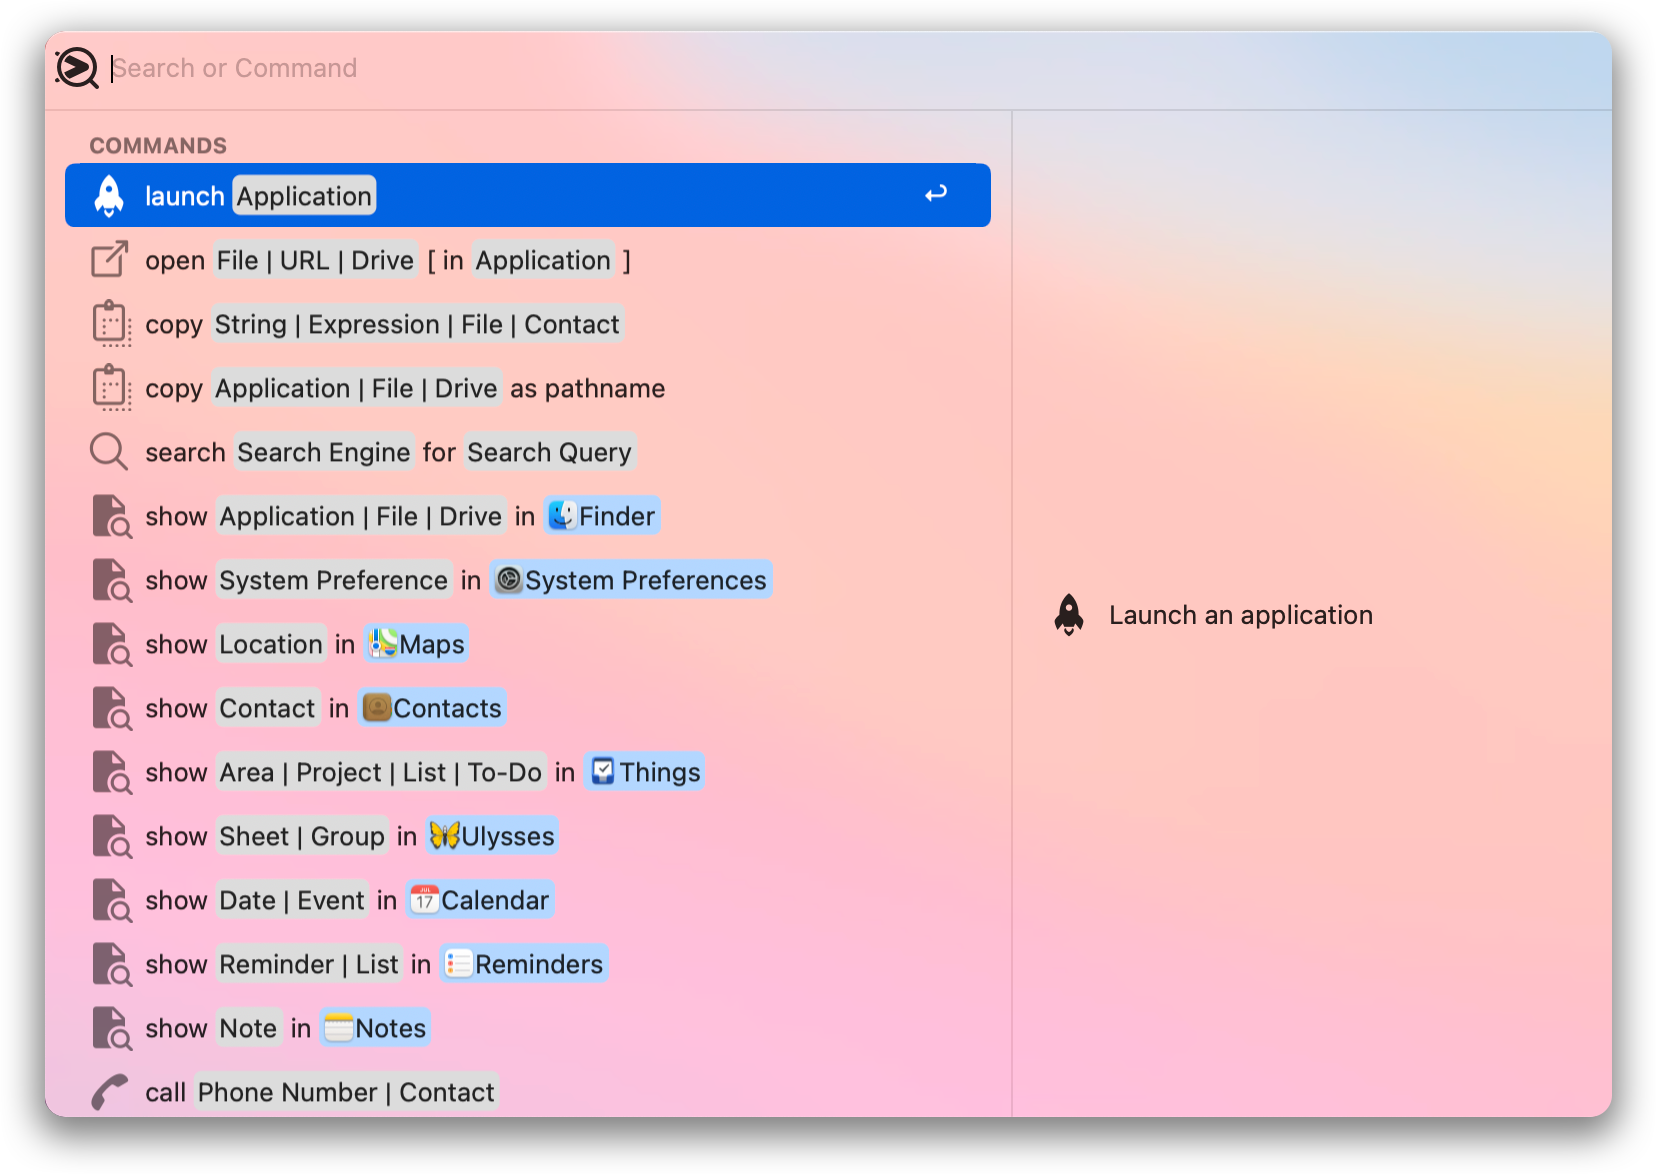
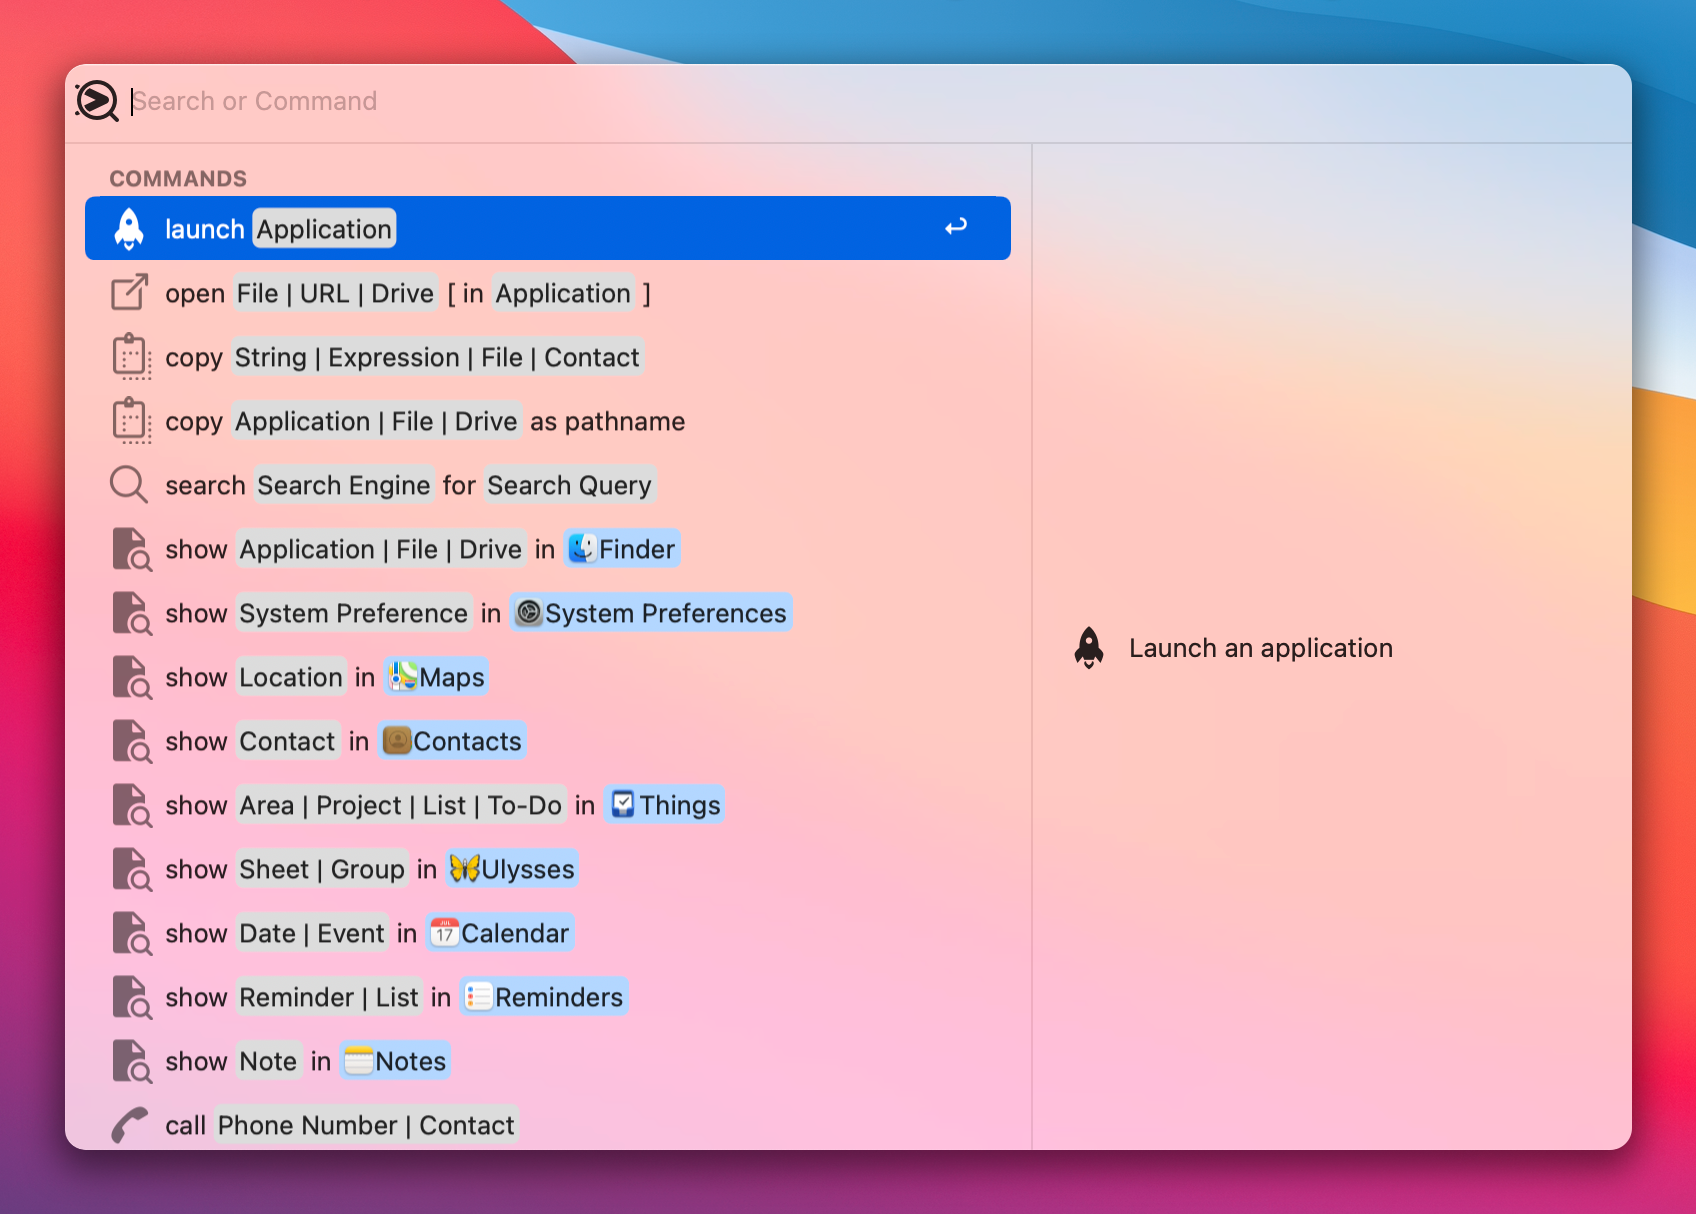
Better screenshots

diff --git a/index.html b/index.html
@@ -10,6 +10,7 @@ title: Don't just search. Command.
       <a href="https://apps.apple.com/us/app/lacona/id1495926282?mt=12"><img src="img/Download_on_the_Mac_App_Store_Badge_US-UK_RGB_blk_092917.svg" /></a>
       <!--<div class="available-on-setapp-235" style="display: inline-block"></div>-->
     </div>
+    <video class="screen" src="/img/rec.mov" autoplay muted loop poster="/img/1-web.png" />
     <img class="screen" src="/img/1-web.png" />
     <p>Open Lacona with a keystroke and <strong>type anything</strong>. Launch apps and find your files instantly.</p>
     <p>But don't just search&mdash;run powerful commands to <strong>control everything</strong> on your Mac.</p>
@@ -38,7 +39,7 @@ title: Don't just search. Command.
 </section>
 
 <section class="box detail" id="style">
-  <h3><strong>Style</strong> &amp; <strong>Substance</strong></h3>
+  <h3>Productive <strong>Elegance</strong></h3>
   <img class="screen" src="/img/5-web.png" />
   <p>Beautiful <strong>Dark mode</strong>. Tasteful <strong>vibrancy</strong>. Elegant <strong>previews</strong>.
 </section>

diff --git a/css/main.css b/css/main.css
@@ -91,8 +91,10 @@ nav li:before {
 
 .screen {
   width: 100%;
-  max-height: 400px;
-  object-fit: contain;
+  max-height: 550px;
+  object-fit: cover;
+  border-radius: 12px;
+  box-shadow: 0 4px 16px rgba(0, 0, 0, 0.5);
 }
 
 .hero {
@@ -152,8 +154,10 @@ p {
 footer {
   text-align: center;
   font-size: 90%;
-  padding-top: 2em;
+  margin-top: 2em;
+  padding-top: 1em;
   padding-bottom: 1em;
+  border-top: 1px solid rgba(0, 0, 0, 0.3);
 }
 
 ul {
@@ -193,4 +197,7 @@ li:before {
 }
 code {
   display: inline-block;
+}
+hr {
+  border: 1px solid rgba(0, 0, 0, 0.1);
 }

diff --git a/guide.md b/guide.md
@@ -3,102 +3,113 @@ layout: page
 title: Usage Guide
 ---
 
-### The Basics {#basic}
+### Opening Lacona {#opening}
 
-Using Lacona is straightforward, but here are some tips if you're struggling to get started.
+To open Lacona, you can use the *keyboard shortcut* defined in Lacona Preferences. By default, this keyboard shortcut is ⌥Space (that is, hold down Option/Alt and press the Spacebar).
 
-#### Opening Lacona {#opening}
+You can change this keyboard shortcut from the Lacona Preferences.
 
-To open Lacona, you can use the Keyboard Shortcut defined in Lacona Preferences. By default, this Keyboard Shortcut is ⌥Space (that is, hold down Option/Alt and press the Spacebar).
+If you forgot the keyboard shortcut, you can open Lacona by clicking its icon in the Menu Bar.
 
-You can change this Keyboard Shortcut from the Lacona Preferences.
+---
 
-If you forgot the Keyboard Shortcut, you can open Lacona by clicking its icon in the Menu Bar.
-
-#### Searching {#searching}
+### Searching {#searching}
 
 To search your data, simply open Lacona and start typing.
 
-Lacona will present you a list of Results that best match your query. Lacona allows for a degree of fuzziness in the input - you can skip characters in the search query, and Lacona will do its best to understand.
+Lacona will present you a list of *results* that best match your query. Lacona allows for a degree of fuzziness in the input - you can skip characters in the search query, and Lacona will do its best to understand.
 
-Lacona will display a list of Results. You can use your mouse or the arrow keys to select any Result, the right side will display a [Preview](#previews).
+You can use your mouse or the arrow keys to select any result, the right side will display a [*preview*](#previews).
 
-While a Result is selected, pressing Return will add it to your [Shelf](#shelf), so you can use it in commands. If you want to open the item immediately, you can [press ⌘↩](#shortcuts) (hold Command and press Return).
+While a result is selected, pressing Return will add it to your [shelf](#shelf), so you can use it in commands. If you want to open the item immediately, you can [press ⌘↩](#shortcuts) (hold Command and press Return).
 
-#### Commands {#commands}
+---
 
-Commands tell Lacona to perform actions. These start with a verb and contain one or more objects. For example, "open Safari" or "search Google for Lacona".
+### Commands {#commands}
 
-Lacona will show all available commands before you enter any input. This is called the Command List.
+Commands tell Lacona to perform actions. These start with a verb and contain one or more objects (e.g. "open Safari" or "search Google for Lacona").
 
-To input a command, you can type out the verb and objects in plain English (e.g. "open Safari"). As you type, Lacona will display the command with Placeholders (displayed as gray rectangles), which tell you which type of objects the command can use. Lacona allows for a degree of fuzziness in the input - you can skip characters in the command, and Lacona will do its best to understand.
+Lacona will show all available commands before you enter any input. This is called the *command list*.
 
-Alternatively, you can start by typing in the objects (e.g. "Safari"), and select them to add them to the [Shelf](#shelf). Then, Lacona will display a list of commands which can use that object. You can then select a command from the list, or begin typing the command.
+To input a command, you can type out the verb and objects in plain English (e.g. "open Safari"). As you type, Lacona will display the command with *placeholders*, which tell you which type of objects the command can use. Lacona allows for a degree of fuzziness in the input - you can skip characters in the command, and Lacona will do its best to understand.
+
+Alternatively, you can start by typing in the objects (e.g. "Safari"), and pressing Return to add them to the [shelf](#shelf). Then, Lacona will display a list of commands which can use that object. You can then select a command from the list, or begin typing the command.
 
 At any time, you can press Tab, and Lacona will autocomplete your input and allow you to continue typing the command.
 
 When there are no placeholders remaining in a Command, you can Execute the command by pressing Return.
 
-#### Previews {#previews}
+---
 
-The right side of the Lacona window displays the Preview Pane, which shows additional details about the selected Result.
+### Previews {#previews}
 
-For many Results, the preview shows a list of "Attributes", which are additional data about the Result. Some of these Attributes have a small "Add to Shelf" button on the right side. Clicking that button will add the Attribute to the [Shelf](#shelf).
+The right side of the Lacona window displays the *preview pane*, which shows additional details about the selected result.
 
-If a Command is a [Complete](#commands), you will see a "Preview Action" in the bottom right corner. This indicates exactly what action Lacona will perform when you press Return.
+For many results, the preview shows a list of *attributes*, which are additional data about the result. Some of these attributes have a small "Add to Shelf" button on the right side. Clicking that button will add the attribute to the [shelf](#shelf).
 
-#### The Shelf {#shelf}
+If the command is filled in completely, you will see a *action message* in the bottom right corner. This indicates exactly what Lacona will do when you press Return.
 
-When you select an object, it will be added to the Shelf. Lacona will then display a number of [Commands](#commands) that you can use that object. You can add multiple objects to the Shelf at once, as long as all of the objects can be used in at least one Command.
+---
 
-To empty the Shelf, press the Escape key or the small × on the left side.
+### The Shelf {#shelf}
 
-#### Complex Commands {#complex-commands}
+When you press Return on an object, it will stored on the *shelf*, which appears above the input bar.
+
+Lacona will then display a number of [Commands](#commands) that you can use that object. You can add multiple objects to the shelf, as long as all of the objects can be used in at least one Command.
+
+To empty the shelf, press the Escape key or the small × on the left side.
+
+---
+
+### Complex Commands {#complex-commands}
 
 Some commands come in simple and more complex forms. For example, "open lacona.app" is a simple command, and "open lacona.app in Safari" is more complex. Both are equally valid commands.
 
-In the [Command List](#commands), these commands are represented with `[]` characters (e.g. "open \<URL\> in [\<Application\>]").
+In the [Command List](#commands), these commands are represented with square brackets (e.g. "open URL in \[Application\]").
 
-Once you begin entering a command, this is represented by the ▶ character. If you see a ▶ at the end of a Result, it means that after fully inputting a Command, more options will become available. You can press Tab to fully input a command and see all of the options.
+Once you begin entering a command, the complex forms will be hidden and replaced with the ▶ character. If you see a ▶ at the end of a result, it means that after fully inputting a command, more options will become available.
 
-#### Incomplete Results {#incompletes}
+You can press Tab to fully input a command and see all of the options.
+
+---
+
+### Incomplete Results {#incompletes}
 
 Sometimes, Lacona detects that you are typing an input that looks like it may turn out to be a certain type of object, but it isn't complete yet.
 
 A good example of this is the query "call +1 342". Lacona can tell that you're typing a phone number, but you're not done yet.
 
-Because of this, Lacona shows an "incomplete result", to let you know that it understands your input, but it's waiting for you to type more. This will be replaced with a normal result once you're done typing.
+Because of this, Lacona shows an *incomplete result*, to let you know that it understands your input, but it's waiting for you to type more. This will be replaced with a normal result once you finish typing.
 
 ---
 
-### Advanced Features {#avanced}
+### Matches vs Search Results {#matching}
 
-These features are for the most advanced users - don't worry about these if you're just getting started.
-
-#### Matches vs Search Results {#matching}
-
-When attempting to understand your input, Lacona has two different approaches, Matching and Searching.
+When attempting to understand your input, Lacona has two different approaches, *matching* and *searching*.
 
 Matching happens immediately, so results appear instantly as you type. This makes it very quick to find objects. Matching is used for object types with relatively few options, such as Applications or Search Engines.
 
-Searching happens _asyncronously_, meaning results appear sometime after you type. This prevents Lacona from feeling slow while it looks through large amounts of data. Searching is used for object types with many options, such as Files or Map Locations. While Lacona is searching for something, you will see a loading indicator at the right side of the input bar.
+Searching happens asyncronously, meaning results appear sometime after you type. This prevents Lacona from feeling slow while it looks through large amounts of data. Searching is used for object types with many options, such as Files or Map Locations. While Lacona is searching for something, you will see a spinning loading indicator at the right side of the input bar.
 
-For some object types, Lacona will default to Searching, but you can optionally enable Matching in the Preferences. This will make results appear immediately, but could make Lacona feel slower.
+For some object types, Lacona will default to searching, but you can optionally enable matching in the Preferences. This will make results appear immediately, but could make Lacona feel slower.
 
 This option exists for contacts, calendar events, reminders, notes, music, Things to-dos, and Ulysses sheets.
 
 Consider enabling this if you work with this data often, and you have less than 1,000 (or so) items.
 
-#### Path Navigation {#path-navigation}
+---
+
+### Path Navigation {#path-navigation}
 
 Instead of searching for files, you can also navigate your file system by Path, similarly to how it is done in Terminal.
 
-To begin navigating files by path, start your input `~/` to begin from your User Folder.
+To begin navigating files by path, start your input with "\~/" to begin from your User Folder.
 
-If you want to navigate files from the Root Folder (`/`), you need to [Grant Access to the Root Folder](/faq#files) first.
+You can also navigate files from the root directory ("/"), if you first [Grant Access to the Root Folder](/faq#files) first.
 
+---
 
-#### Pro Shortcuts {#shortcuts}
+### Shortcuts {#shortcuts}
 
 You can jump to the top 10 results by pressing ⌘1 (for the first result) through ⌘0 (for the 10th result).
 
@@ -108,15 +119,19 @@ In addition to moving through the results list with the arrow keys, you can also
 
 All of these shortcuts will be displayed on-screen when ⌘ is held.
 
-If you press ⌘↩ when selecting a result, it will perform the "Default Action" for that result. Usually, this means opening the result (launching an app, opening a file, or showing a note). This action will be displayed in the [Preview Pane](#previews) when ⌘ is held.
+If you press ⌘↩ when selecting a result, it will perform the *primary action* for that result. Usually, this means opening the result (e.g. launching an app, opening a file, or showing a note). This action will be displayed in the [preview pane](#previews) when ⌘ is held.
 
-#### Drag & Drop {#drag-drop}
+---
 
-You can drag files and text onto the Lacona icon (in the Dock, Desktop, or in Finder) to automatically add them to the [Shelf](#shelf). You can also drag them onto the Lacona icon in the Menu Bar.
+### Drag & Drop {#drag-drop}
 
-#### URLs {#urls}
+You can drag files and text onto the Lacona icon (in the Dock, Desktop, or in Finder) to automatically add them to the [shelf](#shelf). You can also drag them onto the Lacona icon in the Menu Bar.
 
-You can add text to the [Shelf](#shelf) programmatically by opening the URL `lacona://x-callback-url/load?text=<your desired text>`.
+---
 
-You can add Files to the [Shelf](#shelf) by opening them with Lacona. This can be done from the Terminal with `open -a Lacona <your file>`.
+### URLs {#urls}
+
+You can add text to the [shelf](#shelf) programmatically by opening the URL `lacona://x-callback-url/load?text=<your desired text>`.
+
+You can add Files to the [shelf](#shelf) by opening them with Lacona. This can be done from the Terminal with `open -a Lacona <your file>`.
 

diff --git a/faq.md b/faq.md
@@ -3,13 +3,6 @@ layout: page
 title: Frequently Asked Questions
 ---
 
-### How do I use Lacona?
-
-Lacona is designed to be powerful, but easy-to-use. Check out the [Usage Guide](/guide) for useful tips.
-
-
----
-
 ### What is Lacona Pro? {#pro}
 
 Lacona Pro unlocks new features, including integrations with great 3rd-party Mac apps. It is available for a small subscription which supports continued Lacona development.
@@ -68,12 +61,13 @@ Here is an unordered Roadmap, which is liable to change.
 
 ---
 
-### Can you integrate with _\[App/Service\]_?  {#integrations}
+### Can you integrate with _\<App/Service\>_?  {#integrations}
 
 If it exposes a good API, maybe! Contact Brandon at [suggestions@lacona.app](mailto:suggestions@lacona.app) and we'll hash it out.
 
 ---
 
-### When will you support _\[Language\]_? {#internationalization}
+### When will you support _\<Language\>_? {#internationalization}
 
-Because of Lacona's natural language functionality, translation is more difficult than most apps. I do want to eventually support non-English languages, but my first priority is making Lacona a first-class English experience.
+Because of Lacona's advanced natural language processing, translation is more difficult than most apps. I do want to eventually support non-English languages, but my first priority is making Lacona a premier English experience.
+
